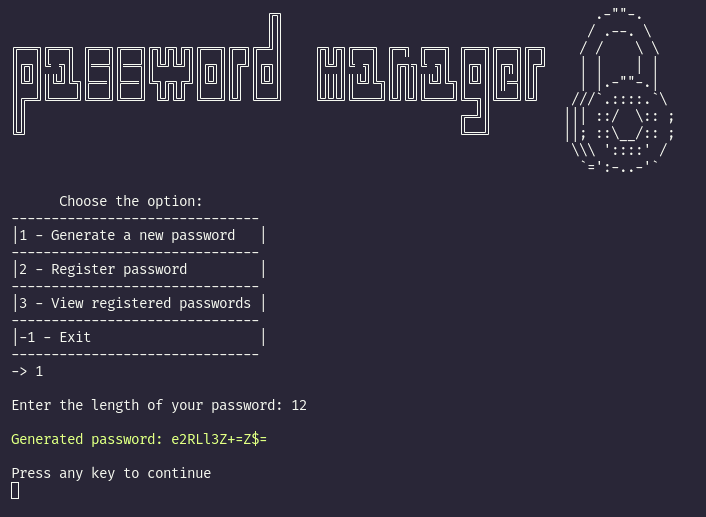
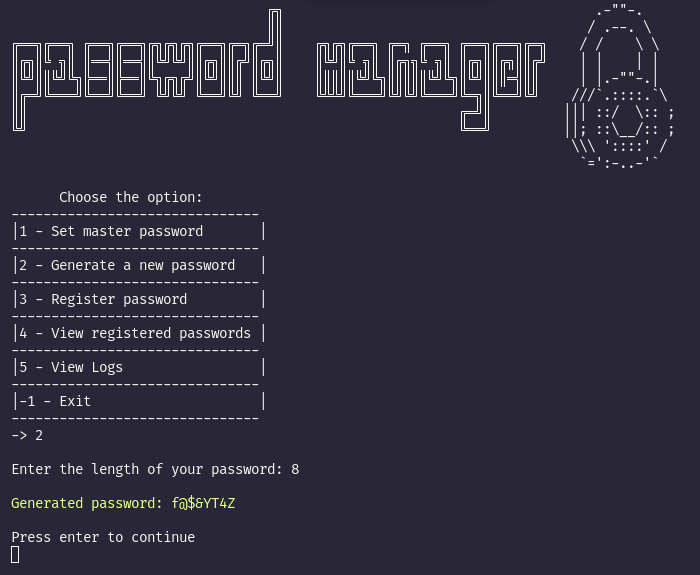
Updated UI and implementing master password.

diff --git a/src/model/Password.java b/src/model/Password.java
@@ -1,7 +1,15 @@
 package model;
 
+import java.util.Scanner;
 import java.util.HashMap;
 import java.util.Random;
+
+import java.io.File;
+import java.io.FileReader;
+import java.io.FileWriter;
+import java.io.BufferedReader;
+import java.io.BufferedWriter;
+import java.io.IOException;
 
 import java.lang.StringBuilder;
 
@@ -11,11 +19,34 @@ public class Password{
 
     private static HashMap<Integer, String> possibilities = new HashMap<>();
     private static Random rd = new Random();
+    private static final String ANSI_RESET = "\u001B[0m";
+    private static final String ANSI_RED = "\u001B[31m";
+
+    private static String getPath(){
+
+        if(System.getProperty("os.name").startsWith("Windows")){
+            return "C:\\Users\\" + System.getProperty("user.name") + "\\mg.csv";
+        }else{
+            return "/home/" + System.getProperty("user.name") + "/.mg.csv";
+        }
+    }
+
+    private static void write(String path, String text){
+        try(BufferedWriter bw = new BufferedWriter(new FileWriter(path))){
+
+            bw.write(text);
+            bw.newLine();
+
+        }catch(IOException e){
+            System.out.println("Error: " + e.getMessage());
+        }
+    }
 
     public static StringBuilder generate(int passLen){
 
         if(passLen < 8){
-            throw new PasswordException("The password have few digits. Use more than or equal 8 digits.");
+            System.out.println();
+            throw new PasswordException(ANSI_RED + "The password have few digits. Use more than or equal 8 digits.\n" + ANSI_RESET);
         }
 
         StringBuilder pass = new StringBuilder();
@@ -50,4 +81,41 @@ public class Password{
 
         return pass;
     }
+
+    public static void checkMaster(String oldPass){
+        File f = new File(getPath());
+
+        try(Scanner sc = new Scanner(f)){
+            String[] tuple = sc.nextLine().split(",");
+
+            if(!oldPass.equals(tuple[1])){
+                System.out.println();
+                throw new PasswordException(ANSI_RED + "Wrong master password\n" + ANSI_RESET);
+            }
+        }catch(IOException e){
+            e.getMessage();
+        }
+    }
+
+    public static void setMaster(String newPass){
+        if(newPass.length()<8){
+            System.out.println();
+            throw new PasswordException(ANSI_RED + "The password have few digits. Use more than or equal 8 digits.\n" + ANSI_RESET);
+        }
+
+        File f = new File(getPath());
+
+        if(f.exists()){
+            String tuple = "Master," + newPass;
+            write(getPath(), tuple);
+            
+        }else{
+            String tuple = "Master," + newPass;
+            write(getPath(), tuple);
+        }
+    }
+
+    public static void register(String master, String alias, String password){}
+
+    public static void getPasswords(String master){}
 }

diff --git a/src/app/Program.java b/src/app/Program.java
@@ -16,7 +16,7 @@ public class Program {
 
         Ui.clearConsole();
         Ui.intro();
-
+        
         while(choice != -1){
             try{
 
@@ -25,16 +25,37 @@ public class Program {
                 choice = sc.nextInt();
                 System.out.println();
                 switch(choice){
+                    case -1:
+                        break;
                     case 1:
+                        sc.nextLine();
+                        System.out.print("Enter the old master password(Press enter if you don't have): ");
+                        String old = sc.nextLine();
+                        Password.checkMaster(old);
+                        System.out.println();
+                        System.out.print("Enter the new master password: ");
+                        String newPass = sc.nextLine();
+                        System.out.println();
+                        Password.setMaster(newPass);
+                        System.out.println();
+                        System.out.println(ANSI_YELLOW + "Master password saved !" + ANSI_RESET);
+                        System.out.println();
+                        System.out.println("Press enter to continue");
+                        sc.nextLine();
+                        break;
+                    case 2:
                         System.out.print("Enter the length of your password: ");
                         System.out.println(ANSI_YELLOW + "\nGenerated password: " + Password.generate(sc.nextInt()) + ANSI_RESET);
                         System.out.println();
-                        System.out.println("Press any key to continue");
+                        System.out.println("Press enter to continue");
                         sc.nextLine();
                         sc.nextLine();
                         break;
-                    case -1:
-                        choice = -1;
+                    case 3:
+
+                        break;
+                    case 4:
+                        
                         break;
                     default:
                         System.out.println("This option does not exists");
@@ -50,7 +71,9 @@ public class Program {
                 e.getStackTrace();
             }
         }
-
+        System.out.println();
+        System.out.println("See you later !");
+        System.out.println();
         sc.close();
     }
 }

diff --git a/src/app/Ui.java b/src/app/Ui.java
@@ -21,11 +21,15 @@ public class Ui {
         System.out.print(
         "      Choose the option:       \n"
         + "-------------------------------\n"
-        + "|1 - Generate a new password   |\n"
+        + "|1 - Set master password       |\n"
         + "-------------------------------\n"
-        + "|2 - Register password         |\n"
+        + "|2 - Generate a new password   |\n"
         + "-------------------------------\n"
-        + "|3 - View registered passwords |\n"
+        + "|3 - Register password         |\n"
+        + "-------------------------------\n"
+        + "|4 - View registered passwords |\n"
+        + "-------------------------------\n"
+        + "|5 - View Logs                 |\n"
         + "-------------------------------\n"
         + "|-1 - Exit                     |\n"
         + "-------------------------------\n"
